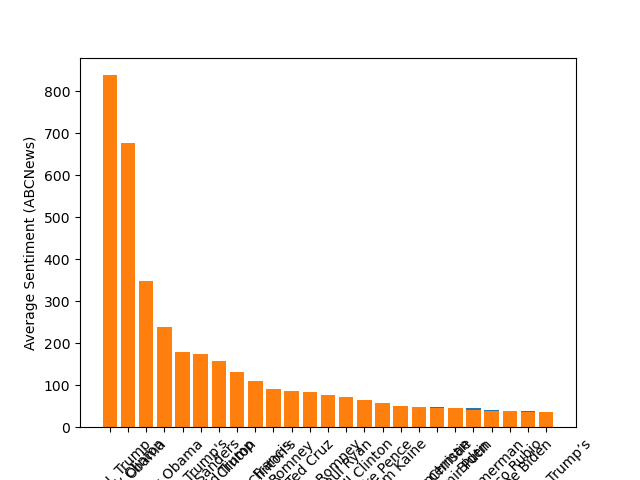
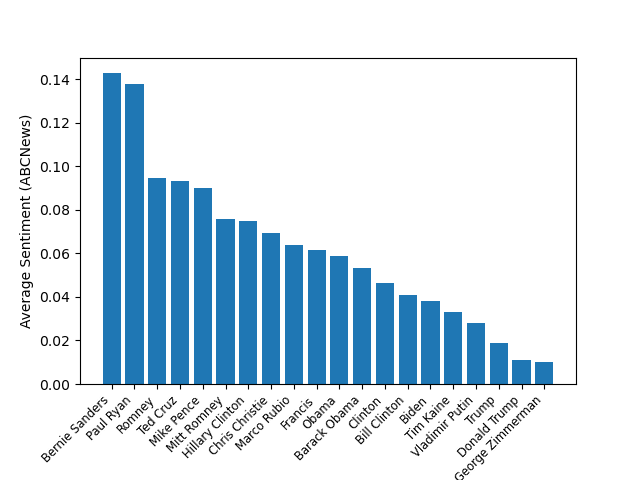
Updated plotting (padding and revised x-axis), sorting of names/sentiments, minor bug fixes

diff --git a/main.py b/main.py
@@ -34,8 +34,7 @@ files = [
 ]
 
 files2 = [
-    ("ABCNews", "data/data/abc_news_86680728811.csv"),
-    ("FoxNews", "data/data/fox_news_15704546335.csv")
+    ("ABCNews", "data/data/abc_news_86680728811.csv")
 ]
 
 results_array = []
@@ -50,8 +49,8 @@ def find_entities(string):
 
 # Sentiment(polarity, subjectivity)
 def find_sentiment(string):
-    testimonial = TextBlob(string)
-    return (testimonial.sentiment.polarity, testimonial.sentiment.subjectivity) 
+    blob_text = TextBlob(string)
+    return (blob_text.sentiment.polarity, blob_text.sentiment.subjectivity) 
 
 def main_function(url):
     #Read the data file into an RDD (starting with one for now)
@@ -72,6 +71,23 @@ def main_function(url):
             return ""
         else:
             return url_to_string(link)
+    
+    """ Clean up off incidences to increase accuracy
+    def clean_strings(in_string):
+        replace = [
+            ("Donald Trump’s", "Donald Trump"),
+            ("Donald J. Trump", "Donald Trump"),
+            ("Obama", "Barack Obama"),
+            ("Trump", "Donald Trump"),
+            ("Biden", "Joe Biden"),
+            ("Clinton", "Hillary Clinton")
+        ]          
+
+        for i in replace:
+            if i[0] == in_string:
+                return i[1]
+            else:
+                return i[0]   """
 
     #Apply entity recognition via find_entities(string) function
     values = values.map(lambda x: (x[0], (x[1][0], x[1][1], x[1][2], x[1][3], x[1][4], find_entities(x[1][0]+x[1][1]), find_sentiment(x[1][0]+x[1][1]))))
@@ -88,7 +104,7 @@ def main_function(url):
     # Create a word cloud!
     create_wordcloud(url[0], concat_string)    
 
-    all_people = values.flatMap(lambda x: ((j[0], 1) for j in x[1][5]))
+    all_people = values.flatMap(lambda x: ((j[0].replace("’s", "").replace("J. ", "").replace("'s", ""), 1) for j in x[1][5]))
     people_count = all_people.reduceByKey(lambda a, b: a + b)
     top_people = people_count.top(200, lambda x : x[1])
     results_array.append((url[0], top_people[:50]))
@@ -109,19 +125,21 @@ def main_function(url):
             if j[0] == i[0]:
                 temp_array.append((i[0], i[1], j[1]/i[1]))
     
+    temp_array.sort(key=lambda x: x[1], reverse=True) 
+
     sentiment_array = []
     for i in temp_array:
         sentiment_array.append((i[0], i[2]))    
 
     # Plot as a bar chart
-    print("TEMP ARRAY: ", temp_array)
+    print("SENTIMENT ARRAY: ", sentiment_array)
     name = "Average Sentiment (" + url[0] + ")"
     file = "images/" + url[0] + "sentiment.png"
-    plot_chart(name, file, sentiment_array)   
+    plot_chart(name, file, sentiment_array[:20])   
 
     av_polarity_array.append((url[0], temp_array))
 
-for i in files2:
+for i in files:
     main_function(i)
 
 print(av_polarity_array)

diff --git a/plot_chart.py b/plot_chart.py
@@ -1,19 +1,34 @@
+from cgitb import small
 import pandas as pd
 import numpy as np
 import matplotlib.pyplot as plt
 
 def plot_chart(name, file_name, data):
-    data.sort(key=lambda x: x[1], reverse=True) 
-
-    # save the names and their respective scores separately
-    # reverse the tuples to go from most frequent to least frequent 
-    people = list(zip(*data))[0][:25]
-    score = list(zip(*data))[1][:25]
-    x_pos = np.arange(len(people)) 
     
-    plt.bar(x_pos, score,align='center')
+    data.sort(key=lambda x: x[1], reverse=True) 
+    people = list(zip(*data))[0][:20]
+    score = list(zip(*data))[1][:20]
+    x_pos = np.arange(len(people)) 
+
+    print("Plot name: ", name)
+    print("People: ", people)
+    print("Scores: ", score)
+    
+    plt.bar(x_pos, score, align='center')
     plt.xticks(x_pos, people) 
-    plt.xticks(rotation = 45)
+
+    plt.xticks(
+        rotation=45, 
+        horizontalalignment='right',
+        fontweight='light',
+        fontsize='small' 
+    )
+    
+    plt.subplots_adjust(bottom=0.2)
+    plt.draw()
 
     plt.ylabel(name)
     plt.savefig(file_name)
+    plt.show()
+
+    plt.close()
